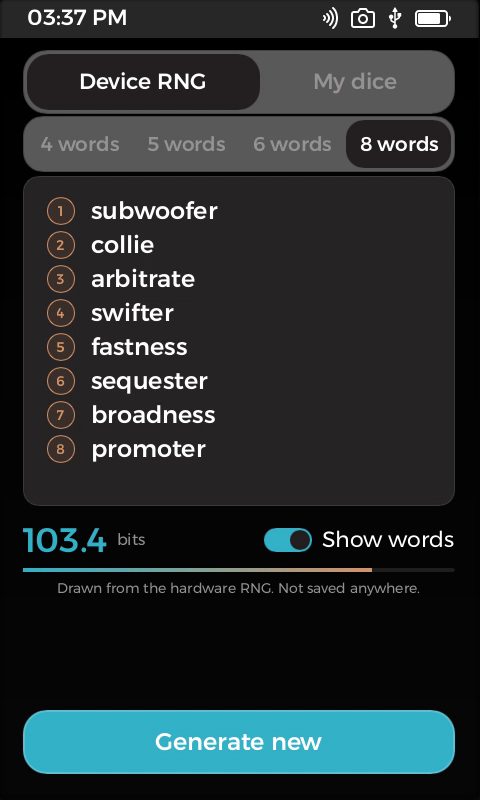
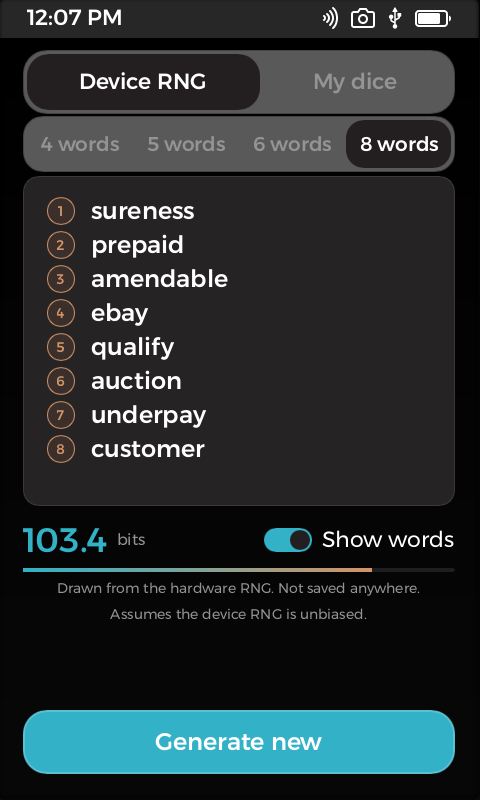
Ask before wiping, state the entropy assumptions, handle the app being hidden
Changes after Foundation's review of the first version:

- A dialog now asks before anything wipes the passphrase on the screen:
  Generate new, Start over, switching the mode or the number of words.
  Keep, or a tap outside it, changes nothing.
- The screen says what the entropy figure assumes (fair dice and independent
  rolls; an unbiased device RNG), and the empty screen states the 30 s / 120 s
  idle timeouts before the first passphrase is drawn. The README no longer
  claims that the dice mode needs to trust nothing.
- The platform runs no timers while an app is hidden, so the idle timeout did
  not run in the background. On Hidden the words are covered at once and a
  waiting question is dropped; on Visible the time away is added to the idle
  time and the passphrase is wiped if that reaches 120 s. Tried in the
  simulator (launcher and back); the lock screen is untested and the README
  says so.
- Refreshed the screenshots, added the dialog.

diff --git a/src/main.rs b/src/main.rs
@@ -13,10 +13,15 @@ mod theme;
 mod wipe;
 
 use slint_keyos_platform::app_ui2;
+use slint_keyos_platform::gui_server_api::InputMessage;
 use slint_keyos_platform::slint::{
     ComponentHandle, Image, Model, ModelRc, Rgba8Pixel, SharedPixelBuffer, SharedString, VecModel, Weak,
 };
-use std::{cell::RefCell, rc::Rc};
+use std::{
+    cell::{Cell, RefCell},
+    rc::Rc,
+    time::Instant,
+};
 
 app_ui2!("Passphrase");
 
@@ -112,6 +117,8 @@ struct Ctx {
     ui: Weak<AppWindow>,
     session: RefCell<Session>,
     rows: Rc<VecModel<Word>>,
+    /// When the system hid the app, while it is hidden.
+    hidden_at: Cell<Option<Instant>>,
 }
 
 impl Ctx {
@@ -209,6 +216,26 @@ impl Ctx {
         self.render(false);
     }
 
+    /// The system hid the app (another app or the launcher took the foreground; a locking screen is expected to
+    /// do the same). Cover the words at once, so that the UI keeps no copy of them while nobody is looking, and
+    /// note the time. They stay covered when the app comes back; "Show words" hands them over again.
+    fn hidden(&self) {
+        let Some(ui) = self.ui.upgrade() else { return };
+        if self.hidden_at.get().is_none() {
+            self.hidden_at.set(Some(Instant::now()));
+        }
+        ui.invoke_hide_words();
+    }
+
+    /// The app is shown again. The platform runs no timers while it is hidden, so the idle timeout could not
+    /// count that time; the UI is told how long it was, and wipes if the passphrase has been left that long.
+    fn shown_again(&self) {
+        let Some(ui) = self.ui.upgrade() else { return };
+        if let Some(since) = self.hidden_at.take() {
+            ui.invoke_came_back(since.elapsed().as_secs().min(i32::MAX as u64) as i32);
+        }
+    }
+
     /// "Show words" was switched, by the user or by the idle timeout. While it is off, the UI holds no
     /// copy of the words; switching it on hands them over again.
     fn set_shown(&self, on: bool) {
@@ -222,7 +249,7 @@ impl Ctx {
     }
 }
 
-fn app_main(_cx: AppContext, ui: AppWindow) {
+fn app_main(cx: AppContext, ui: AppWindow) {
     log_server::init_wait(env!("CARGO_CRATE_NAME")).unwrap();
     log::set_max_level(log::LevelFilter::Info);
 
@@ -232,7 +259,12 @@ fn app_main(_cx: AppContext, ui: AppWindow) {
     let state = ui.global::<PassphraseState>();
     state.set_words(ModelRc::from(rows.clone()));
 
-    let ctx = Rc::new(Ctx { ui: ui.as_weak(), session: RefCell::new(Session::default()), rows });
+    let ctx = Rc::new(Ctx {
+        ui: ui.as_weak(),
+        session: RefCell::new(Session::default()),
+        rows,
+        hidden_at: Cell::new(None),
+    });
     ctx.render(false);
 
     state.on_generate({
@@ -254,6 +286,14 @@ fn app_main(_cx: AppContext, ui: AppWindow) {
     state.on_reveal_changed({
         let ctx = ctx.clone();
         move |on| ctx.set_shown(on)
+    });
+    cx.set_input_handler({
+        let ctx = ctx.clone();
+        move |input| match input.msg {
+            InputMessage::Hidden => ctx.hidden(),
+            InputMessage::Visible => ctx.shown_again(),
+            _ => {}
+        }
     });
 
     ui.run().expect("UI running");

diff --git a/README.md b/README.md
@@ -7,9 +7,9 @@ logs the words, and wipes what it keeps of them.
 [![License: GPL v3](https://img.shields.io/badge/license-GPL--3.0--or--later-blue.svg)](LICENSE)
 ![Status: simulator only](https://img.shields.io/badge/status-simulator%20only-orange.svg)
 
-| Device RNG, 8 words | My dice | Done |
-|---|---|---|
-| ![](screenshots/device-rng.png) | ![](screenshots/my-dice.png) | ![](screenshots/my-dice-done.png) |
+| Device RNG, 8 words | My dice | Done | Asks before wiping |
+|---|---|---|---|
+| ![](screenshots/device-rng.png) | ![](screenshots/my-dice.png) | ![](screenshots/my-dice-done.png) | ![](screenshots/asks-first.png) |
 
 **[Watch the 60 fps demo](demo/animations.mp4)** (recorded from the simulator; 83 s, it ends with the words
 covering themselves after 30 s without a touch).
@@ -30,13 +30,26 @@ the wallet or any other app, and nothing it shows is sent anywhere. You read the
   routes to the device's hardware random number generator (TRNG). Each index is taken from a random 32-bit value;
   values from the incomplete last block of the 32-bit range are rejected, so every word is exactly equally likely.
 - **My dice.** Roll five real dice per word and tap the results. `11111` is the first word of the list
-  (`abacus`), `66666` the last (`zoom`), exactly as on the EFF page. This mode needs to trust no RNG at all.
-  Undo takes back a die, or the last finished word.
-- **Entropy.** The screen shows the bits of what you have so far, with a gauge.
+  (`abacus`), `66666` the last (`zoom`), exactly as on the EFF page. This mode does not use the device's RNG at
+  all, but it trusts your dice (see Entropy below). Undo takes back a die, or the last finished word.
+- **Entropy.** The screen shows the bits of what you have so far, with a gauge. The figure assumes that each
+  word is chosen uniformly and independently of the others: with dice, that the dice are fair and every roll is
+  independent (a worn or loaded die, or rolls that depend on each other, give fewer bits than shown); with the
+  device RNG, that the hardware generator is unbiased. The screen says so under the gauge.
 - **Show words.** Covers the words with dots. While they are covered the UI is not given the words at all.
+- **No accidental replacement.** Anything that would wipe the passphrase on the screen asks first: Generate new,
+  Start over, and switching the mode or the number of words. The dialog defaults to keeping it: tapping outside
+  it, or Keep, changes nothing.
 - **Idle protection.** After **30 s** without a touch the words cover themselves, after **120 s** everything is
   wiped and the screen goes back to its empty state. A touch is a tap on any control; both times are constants in
-  `ui/app.slint` (`Policy`).
+  `ui/app.slint` (`Policy`), and the empty screen states them before the first passphrase is drawn.
+- **Leaving the app.** When the system hides the app (in the simulator: the launcher or another app comes to the
+  front), the words are covered at once, a question that was waiting is dropped, and the words stay covered when
+  you come back. The platform runs no timers while an app is hidden (its event loop waits until the app is shown
+  again), so the idle timeout cannot count that time. The app measures it itself: on coming back it adds the
+  time away to the idle time, and if that reaches 120 s it wipes before anything is shown. What it cannot do is
+  wipe by itself *while* hidden: until you come back or the app is closed, the words stay in its memory, covered.
+  See Status for what has been tested.
 - **Pixel-in.** A new word appears as coarse blocks that sharpen step by step into the real text (11, 7, 4 and
   2 pixel cells); words leave the same way backwards. When one word is added (dice mode) only that word plays
   the effect.
@@ -68,6 +81,13 @@ Version 0.1.0 runs in the KeyOS **simulator** only. It builds for the device (`a
 the installer limit is 64 MiB) but is **not signed, and has never been run on a Passport Prime**. In particular
 the randomness it gets in the simulator comes from the simulator's own generator, not from hardware: do not use
 a passphrase made there for anything real.
+
+Leaving the app was tried in the simulator by sending it to the launcher and back: after a few seconds the words
+come back covered, and after more than 120 s the app comes back empty. **Not tested:** what the Prime's lock
+screen does. The SDK documents an input message `Hidden` ("the app is getting minimized and hidden in the
+background") and the app reacts to it, but I have not confirmed that locking the device sends it, and an app
+cannot see the lock state without a permission I have not looked into. Please treat locking as unverified until
+it has been tried on a device.
 
 ## Build and run
 
